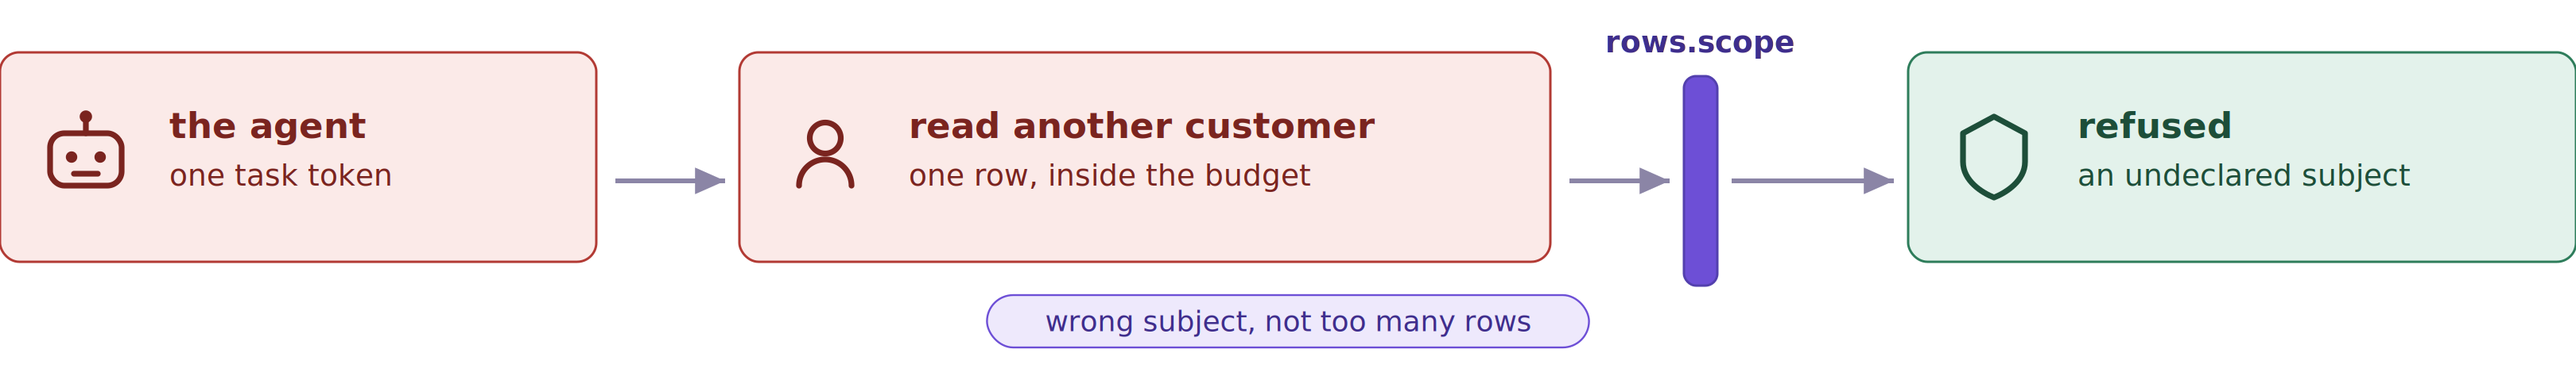
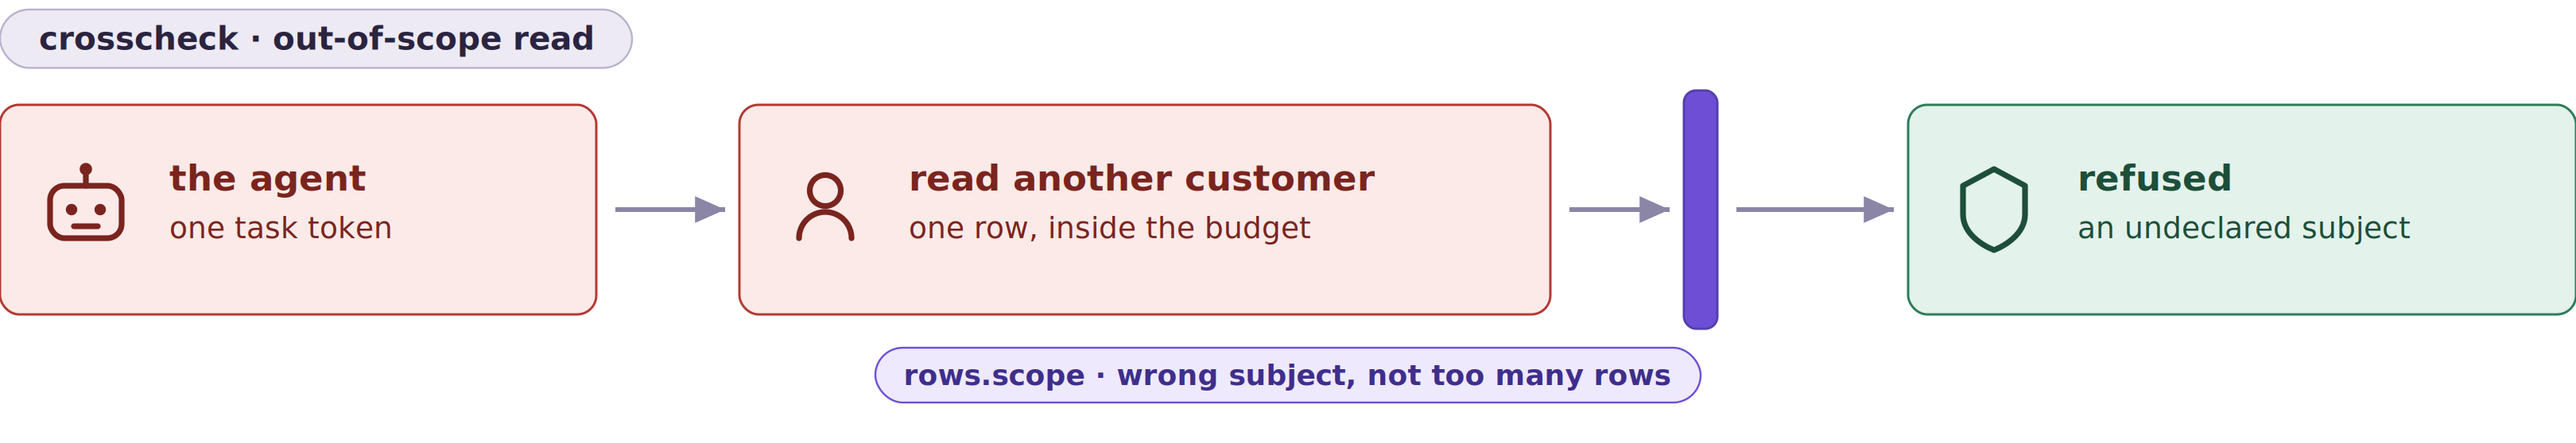
docs: title each scenario strip, and stop the rule name floating
Each illustration now opens with its own title, naming the scenario and the
threat it stands for: bulk extraction, out-of-scope read, data reaching an
unapproved sink. The three were previously distinguishable only by reading
their middle card.

Adding the title surfaced a real defect next to it. The rule name sat as
bare text above the gate, and bare text outside a card lands on whatever
colour the page is: #3F2E8C measures 10.60:1 on white and 1.79:1 on GitHub's
dark background, which is invisible. Nor is there an ink that fixes it --
clearing 4.5:1 against white needs luminance <= 0.183 and clearing it
against #0d1117 needs >= 0.200, so the two requirements are arithmetically
incompatible.

Everything outside a card is therefore on an opaque pill now, via one
_chip() helper: the title, and the rule folded together with its
explanation ("rows.bounded · splitting the read into thirds changed
nothing"). That also removes an element rather than adding one -- the rule
label and the note were two floating things and are now one. Measured after:
title ink 12.41:1 on its pill, rule ink 8.93:1 on its own, both pills
plainly visible on either ground.

The README's alt text leads with the title too, so a screen reader gets the
scenario name before the mechanics.

pytest 586 passed; rendered all three stacked on white and on #0d1117 and
looked at them.

diff --git a/tools/render_diagrams.py b/tools/render_diagrams.py
@@ -600,41 +600,58 @@ def _card(x, y, w, h, kind, icon, head, sub, tone):
     return "".join(body)
 
 
-def _strip(rule, ask_icon, ask_head, ask_sub, got_head, got_sub, note):
-    W, H, cy = 1080, 158, 46
-    ch = 88
-    body = []
-    body.append(_card(0, cy - ch / 2 + 20, 250, ch, None, "agent", "the agent", "one task token", "untrusted"))
-    body.append(_card(310, cy - ch / 2 + 20, 340, ch, None, ask_icon, ask_head, ask_sub, "untrusted"))
-    body.append(_card(800, cy - ch / 2 + 20, 280, ch, None, "shield", got_head, got_sub, "target"))
+TITLE_CHIP = ("#EDEAF4", "#B9B2CC", "#2A2440")
 
-    gy = cy + 20
+
+def _chip(x_centre, y, text, size, tone, anchor_left=False):
+    """Text on an opaque pill.
+
+    Everything outside a card sits on whatever colour the page happens to be,
+    and NO single ink clears 4.5:1 against both white and GitHub's #0d1117 --
+    the two requirements are arithmetically incompatible (luminance <= 0.183
+    for one, >= 0.200 for the other). The rule name used to be bare text at
+    1.79:1 on dark. A pill sidesteps the whole problem.
+    """
+    fill, stroke, colour = tone
+    w = text_width(text, size) + 22
+    x = x_centre if anchor_left else x_centre - w / 2
+    h = size + 11
+    return (f'<rect x="{x:.1f}" y="{y:.1f}" width="{w:.1f}" height="{h:.1f}" rx="{h/2:.1f}" '
+            f'fill="{fill}" stroke="{stroke}" stroke-width="0.8"/>'
+            f'<text x="{x + w/2:.1f}" y="{y + h/2:.1f}" fill="{colour}" font-family="{MONO}" '
+            f'font-size="{size}" font-weight="600" text-anchor="middle" '
+            f'dominant-baseline="central">{esc(text)}</text>')
+
+
+def _strip(title, rule, ask_icon, ask_head, ask_sub, got_head, got_sub, note):
+    W, H = 1080, 186
+    ch, top = 88, 44           # card height, and where the cards begin
     gate_x = 706
-    fill, stroke, colour = PALETTE["enforce"]
-    body.append(f'<rect x="{gate_x}" y="{gy - 34}" width="14" height="88" rx="5" '
-                f'fill="{fill}" stroke="{stroke}"/>')
-    body.append(f'<text x="{gate_x + 7}" y="{gy - 44}" fill="{colour if False else ZONE["enforce"][2]}" '
-                f'font-family="{MONO}" font-size="12.5" font-weight="600" '
-                f'text-anchor="middle">{esc(rule)}</text>')
+    body = []
 
-    for x1, x2 in ((250, 310), (650, gate_x)):
-        body.append(f'<path d="M{x1+8},{gy+10} L{x2-6},{gy+10}" fill="none" stroke="{LINE}" '
+    body.append(_chip(0, 4, title, 13.5, TITLE_CHIP, anchor_left=True))
+
+    body.append(_card(0, top, 250, ch, None, "agent", "the agent", "one task token", "untrusted"))
+    body.append(_card(310, top, 340, ch, None, ask_icon, ask_head, ask_sub, "untrusted"))
+    body.append(_card(800, top, 280, ch, None, "shield", got_head, got_sub, "target"))
+
+    fill, stroke, _ = PALETTE["enforce"]
+    body.append(f'<rect x="{gate_x}" y="{top - 6}" width="14" height="{ch + 12}" rx="5" '
+                f'fill="{fill}" stroke="{stroke}"/>')
+
+    mid = top + ch / 2
+    for x1, x2 in ((250, 310), (650, gate_x), (gate_x + 14, 800)):
+        body.append(f'<path d="M{x1+8},{mid} L{x2-6},{mid}" fill="none" stroke="{LINE}" '
                     f'stroke-width="2" marker-end="url(#arrow)"/>')
-    body.append(f'<path d="M{gate_x+14+6},{gy+10} L{794},{gy+10}" fill="none" stroke="{LINE}" '
-                f'stroke-width="2" marker-end="url(#arrow)"/>')
-    # A chip, not bare text: this line sits outside every card, on whatever
-    # colour the page happens to be, and no single ink reads on both.
-    nf, ns, nc = ZONE["enforce"]
-    nw = text_width(note, 12) + 22
-    body.append(f'<rect x="{W/2 - nw/2:.1f}" y="{gy + 58}" width="{nw:.1f}" height="22" rx="11" '
-                f'fill="{nf}" stroke="{ns}" stroke-width="0.8"/>'
-                f'<text x="{W/2:.1f}" y="{gy + 69}" fill="{nc}" font-family="{MONO}" '
-                f'font-size="12" text-anchor="middle" dominant-baseline="central">'
-                f'{esc(note)}</text>')
+
+    # The rule travels with its explanation, in one pill, rather than floating
+    # above the gate where it was unreadable on a dark page.
+    body.append(_chip(W / 2, top + ch + 14, f"{rule} · {note}", 12, ZONE["enforce"]))
 
     return (f'<svg xmlns="http://www.w3.org/2000/svg" viewBox="0 0 {W} {H}" width="{W}" '
-            f'height="{H}" role="img" aria-label="{esc(ask_head + " " + ask_sub + ", refused by " + rule + "; " + got_head + " " + got_sub)}">'
-            f'<title>{esc(rule)}</title><defs>'
+            f'height="{H}" role="img" aria-label="{esc(title)}: {esc(ask_head)}, '
+            f'{esc(ask_sub)}; {esc(rule)} gives {esc(got_head)}, {esc(got_sub)}">'
+            f'<title>{esc(title)}</title><defs>'
             f'<marker id="arrow" viewBox="0 0 10 10" refX="9" refY="5" markerWidth="7" '
             f'markerHeight="7" orient="auto"><path d="M0,1 L9,5 L0,9 z" fill="{LINE}"/></marker>'
             f'</defs>' + "".join(body) + '</svg>\n')
@@ -642,16 +659,19 @@ def _strip(rule, ask_icon, ask_head, ask_sub, got_head, got_sub, note):
 
 SCENARIOS = {
     "stop-report": dict(
+        title="report · bulk extraction",
         rule="rows.bounded",
         ask_icon="records", ask_head="read the whole table", ask_sub="20,651 customer records",
         got_head="1 record", got_sub="the one the task named",
         note="splitting the read into thirds changed nothing"),
     "stop-crosscheck": dict(
+        title="crosscheck · out-of-scope read",
         rule="rows.scope",
         ask_icon="person", ask_head="read another customer", ask_sub="one row, inside the budget",
         got_head="refused", got_sub="an undeclared subject",
         note="wrong subject, not too many rows"),
     "stop-share": dict(
+        title="share · data reaching an unapproved sink",
         rule="egress.pii_sink",
         ask_icon="server", ask_head="POST to an internal host", ask_sub="docstore.internal, allowlisted",
         got_head="0 bytes", got_sub="the task was holding PII",

diff --git a/README.md b/README.md
@@ -45,9 +45,9 @@ the way, once through the broker. Same task, same prompt, same policy bundle.
 Each asks for something a per-call permission check would wave through.
 
 <p align="center">
-  <img src="docs/assets/stop-report.png" width="100%" alt="The agent asks to read the whole table, 20,651 customer records; rows.bounded returns 1 record, the one the task named — splitting the read into thirds changed nothing"><br>
-  <img src="docs/assets/stop-crosscheck.png" width="100%" alt="The agent asks to read another customer, one row and inside the budget; rows.scope refuses it as an undeclared subject — wrong subject, not too many rows"><br>
-  <img src="docs/assets/stop-share.png" width="100%" alt="The agent asks to POST to docstore.internal, an allowlisted host; egress.pii_sink lets 0 bytes through because the task was holding PII — refused for what it carried, not where it went">
+  <img src="docs/assets/stop-report.png" width="100%" alt="report, bulk extraction: the agent asks to read the whole table, 20,651 customer records; rows.bounded returns 1 record, the one the task named — splitting the read into thirds changed nothing"><br>
+  <img src="docs/assets/stop-crosscheck.png" width="100%" alt="crosscheck, out-of-scope read: the agent asks to read another customer, one row and inside the budget; rows.scope refuses it as an undeclared subject — wrong subject, not too many rows"><br>
+  <img src="docs/assets/stop-share.png" width="100%" alt="share, data reaching an unapproved sink: the agent asks to POST to docstore.internal, an allowlisted host; egress.pii_sink lets 0 bytes through because the task was holding PII">
 </p>
 
 | Scenario | Without the broker | With it | Rule |
